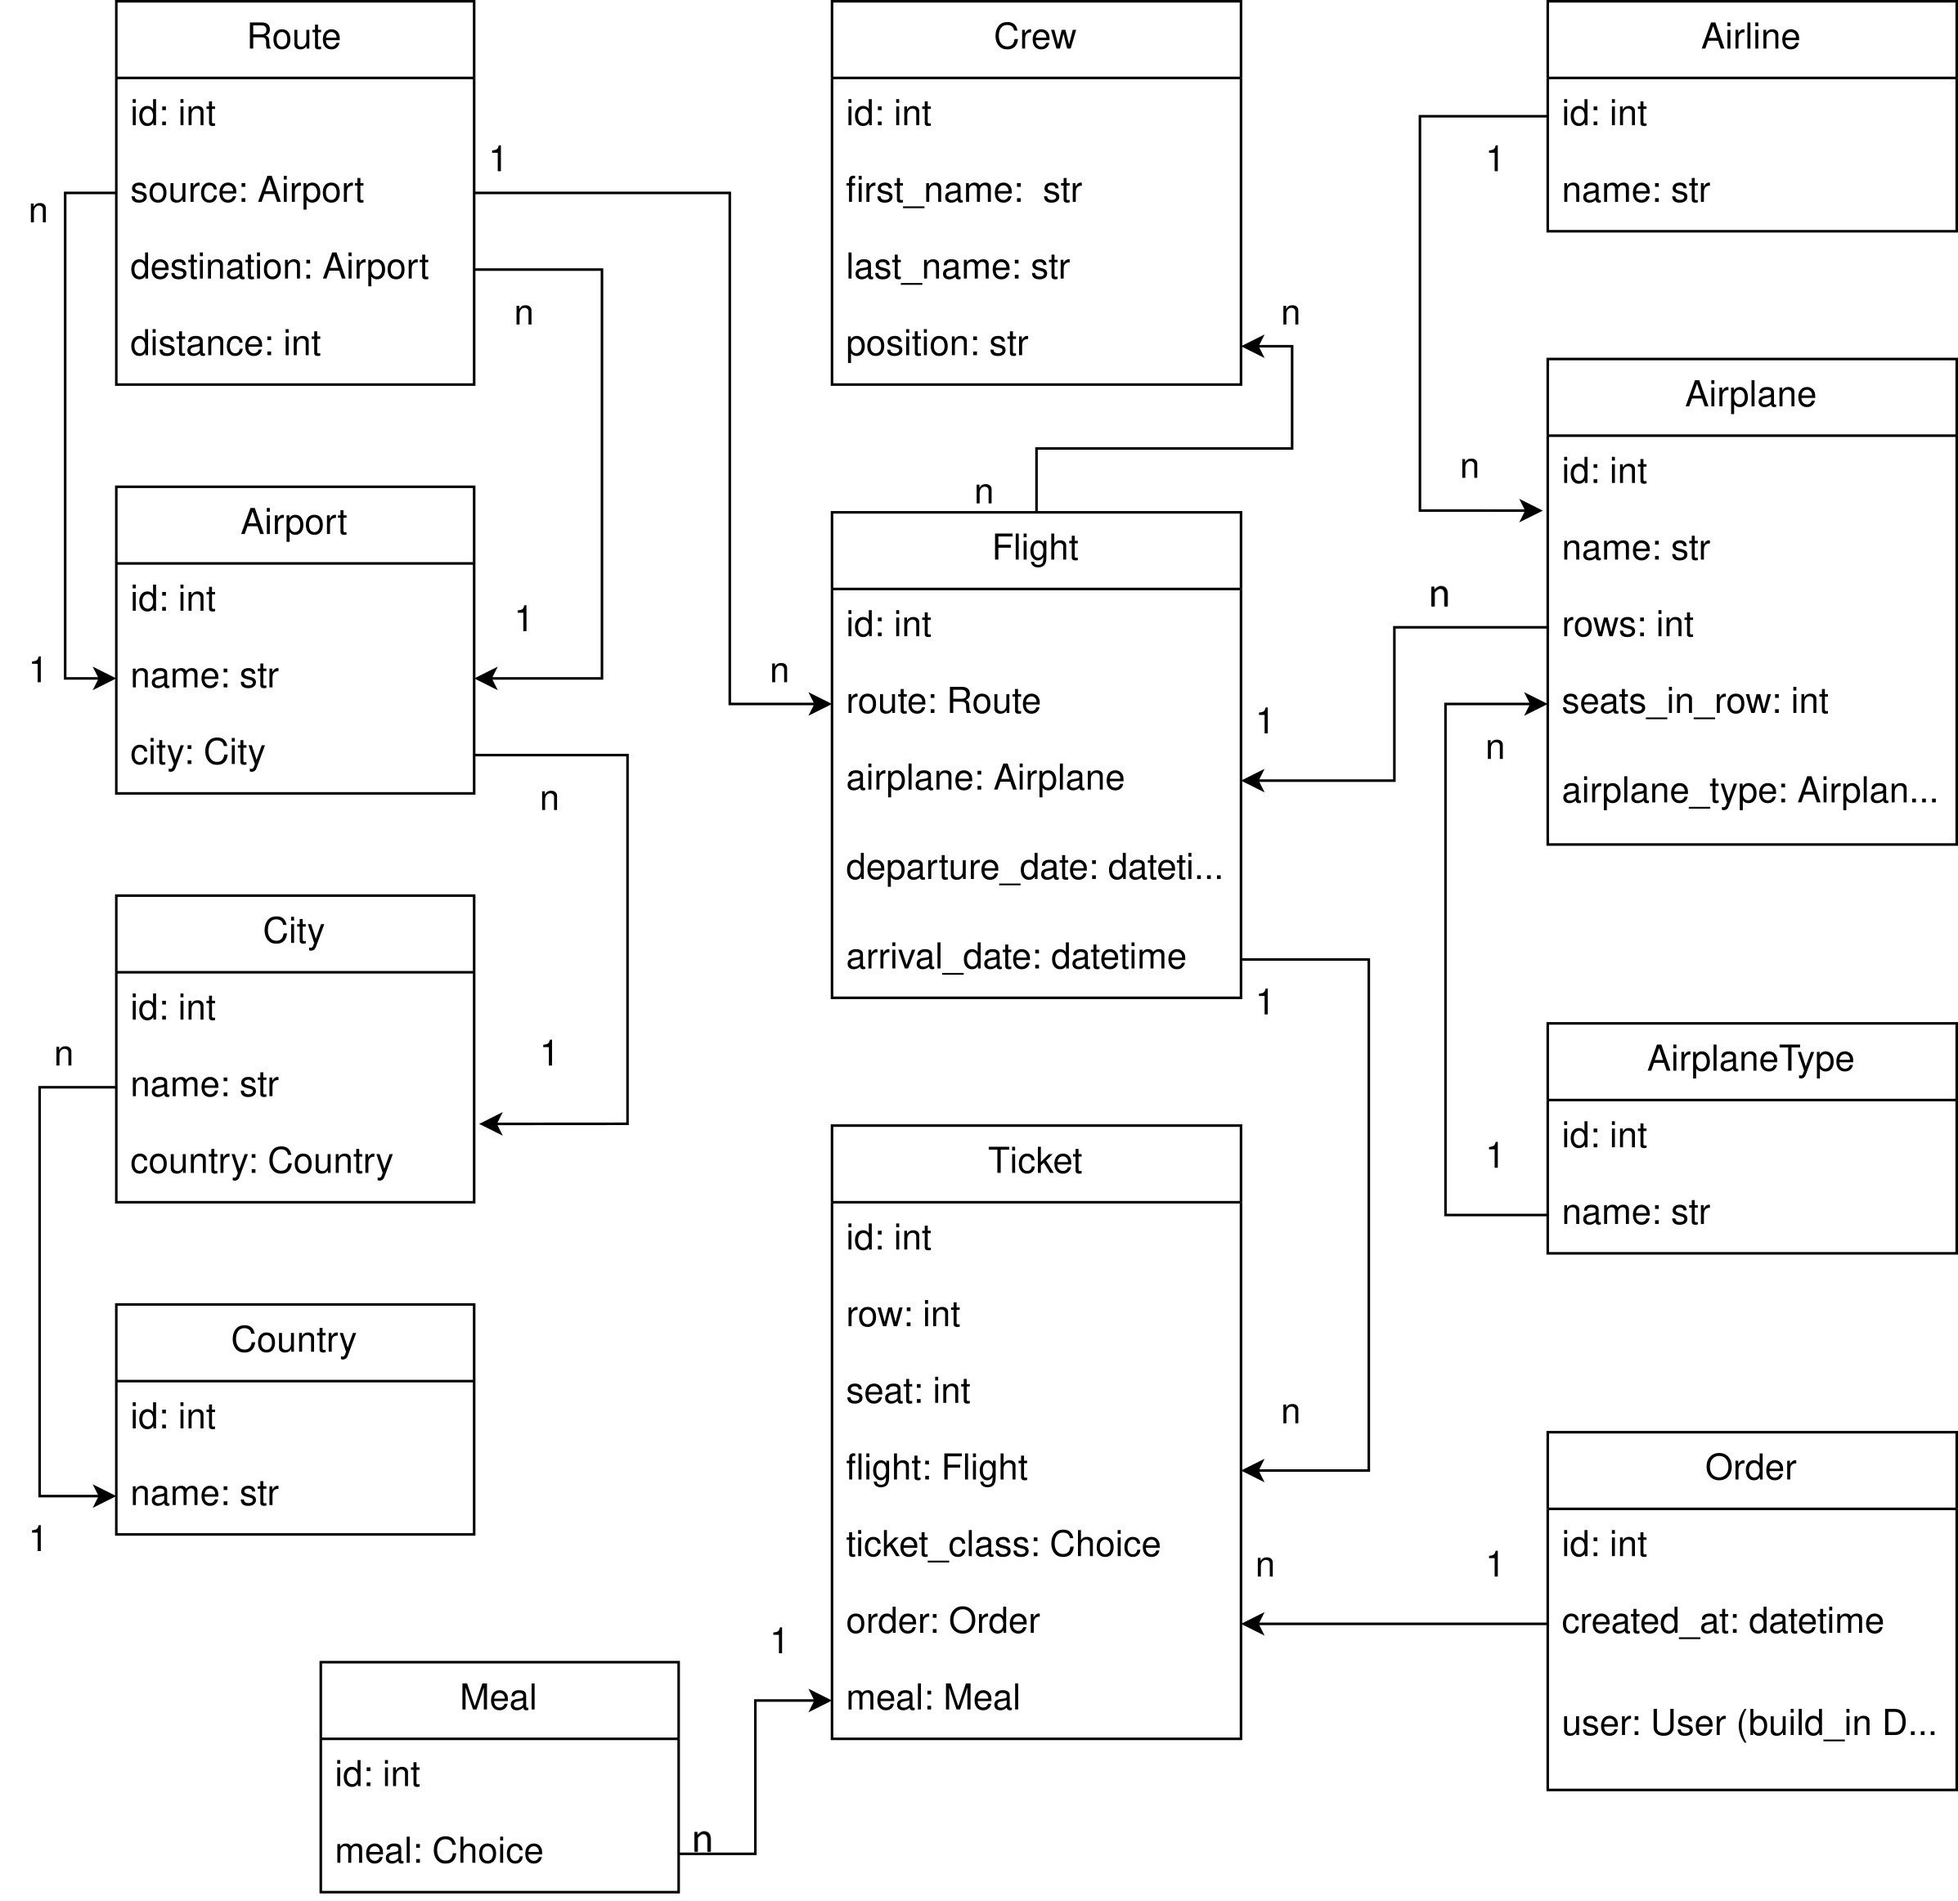
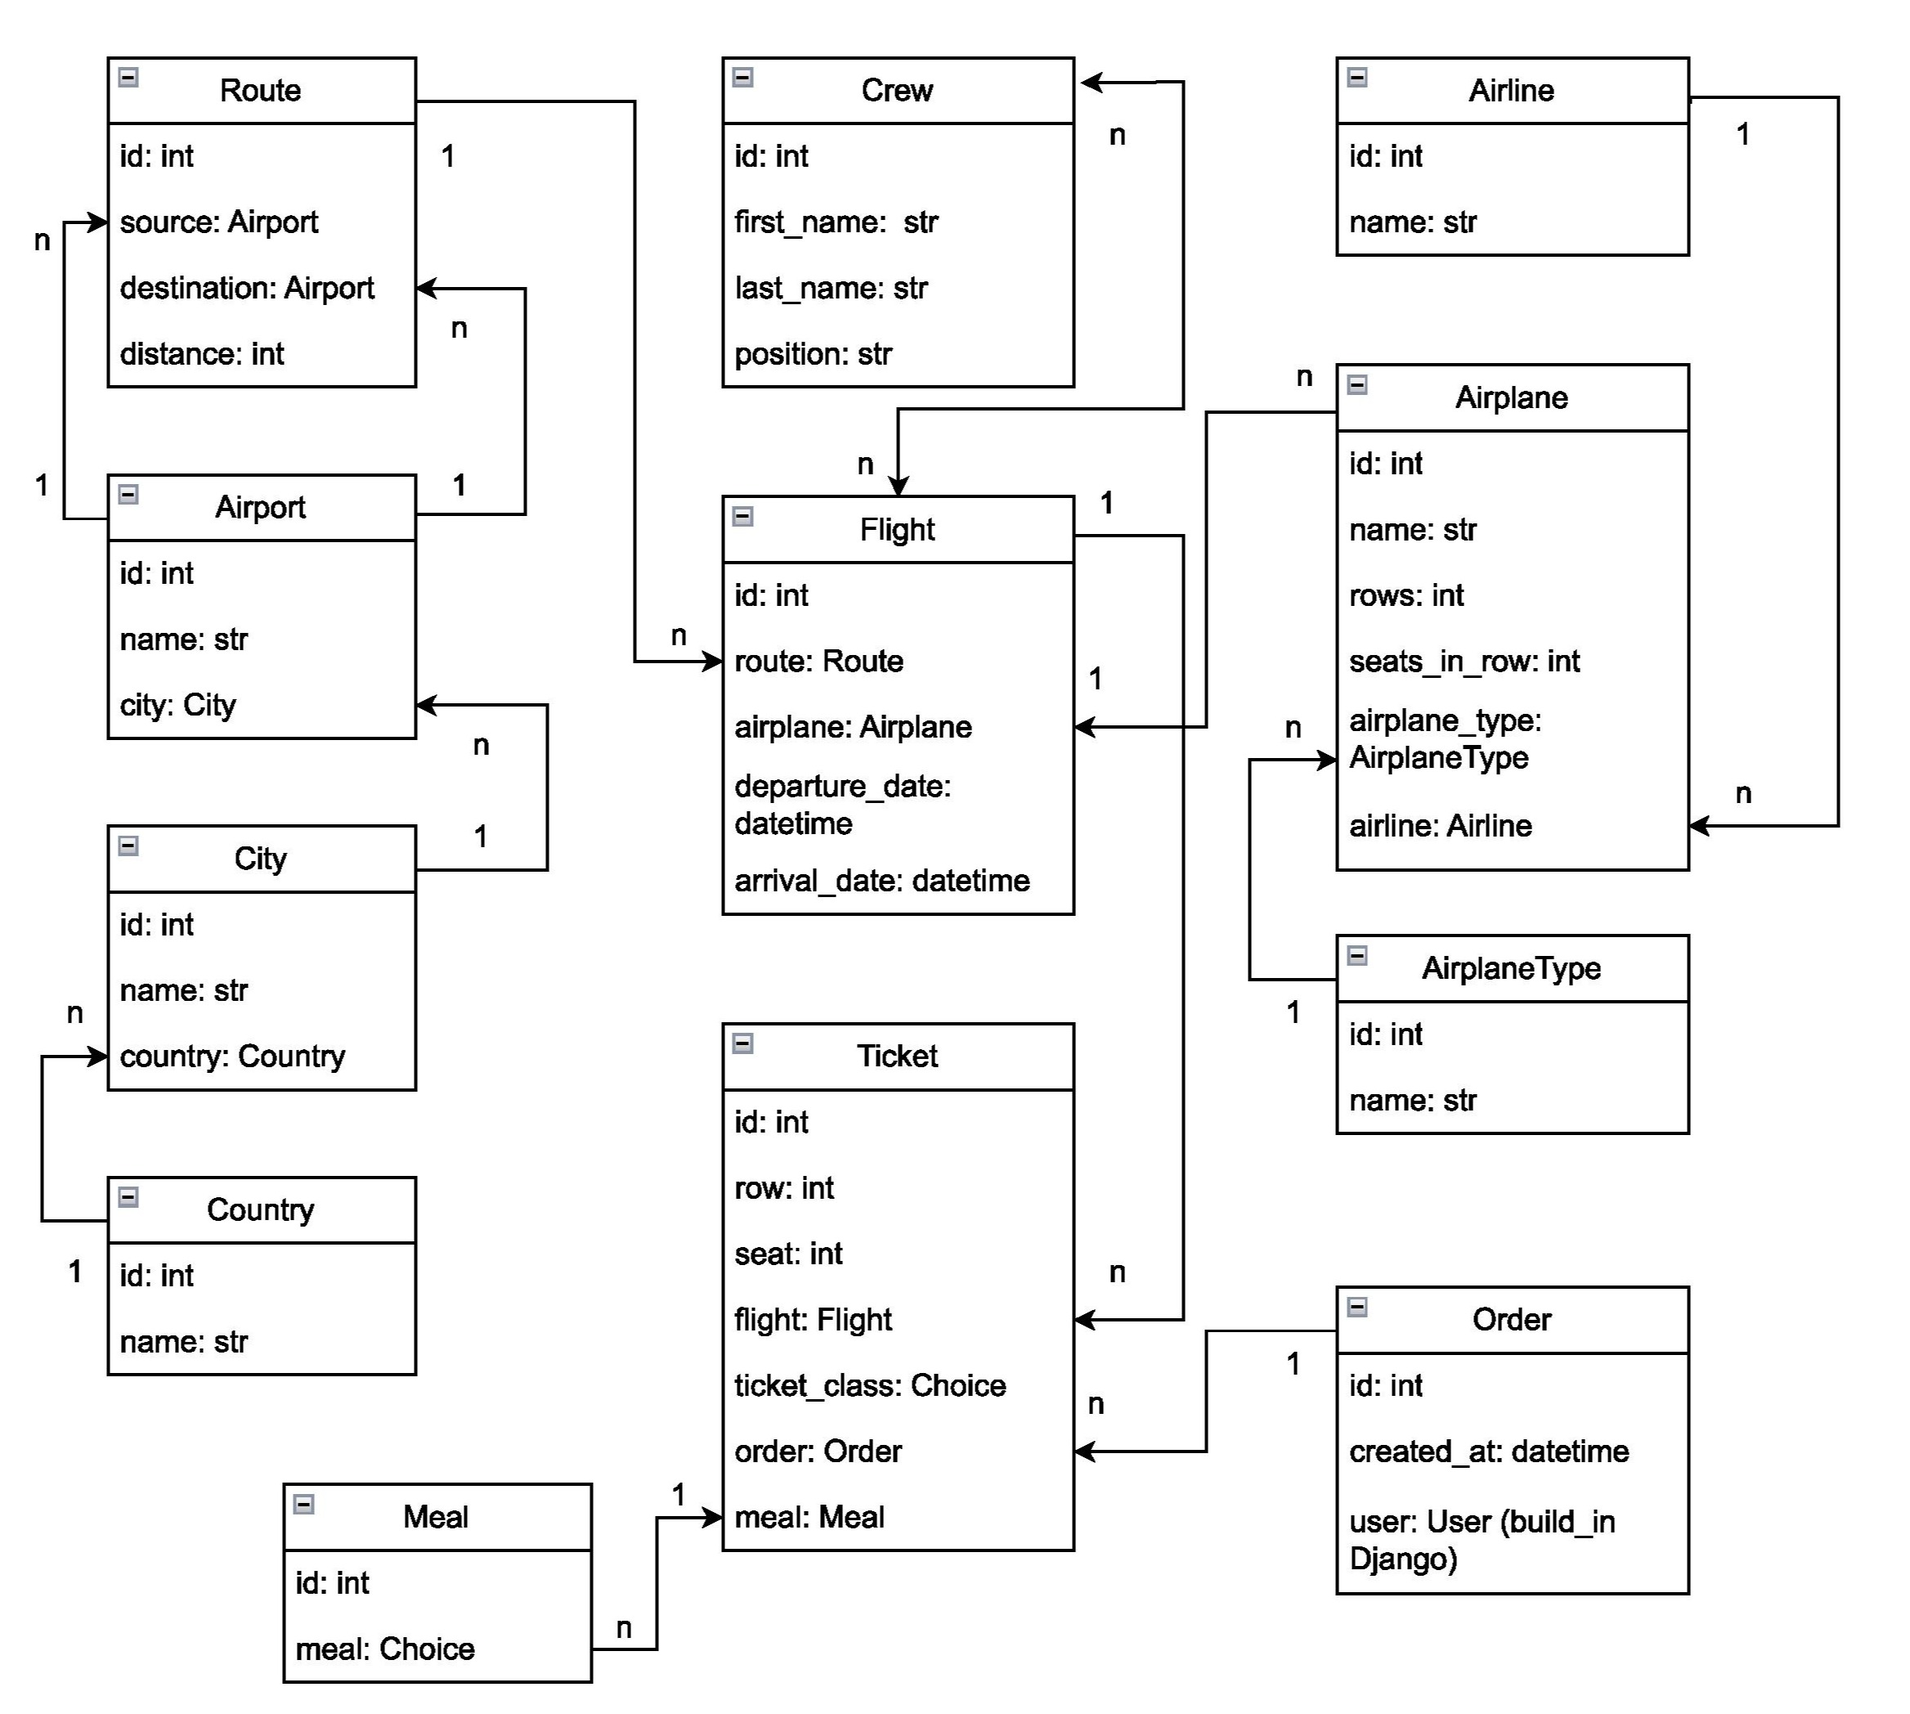
Optimized migrations
Optimized migrations

diff --git a/flight/migrations/0001_initial.py b/flight/migrations/0001_initial.py
@@ -1,5 +1,6 @@
-# Generated by Django 4.2.5 on 2023-09-09 15:19
+# Generated by Django 4.2.5 on 2023-09-17 16:38
 
+from django.conf import settings
 from django.db import migrations, models
 import django.db.models.deletion
 
@@ -7,7 +8,11 @@ import django.db.models.deletion
 class Migration(migrations.Migration):
     initial = True
 
-    dependencies = []
+    dependencies = [
+        ("airplane", "0001_initial"),
+        ("airport", "0001_initial"),
+        migrations.swappable_dependency(settings.AUTH_USER_MODEL),
+    ]
 
     operations = [
         migrations.CreateModel(
@@ -24,7 +29,13 @@ class Migration(migrations.Migration):
                 ),
                 ("first_name", models.CharField(max_length=255)),
                 ("last_name", models.CharField(max_length=255)),
+                ("position", models.CharField(max_length=255)),
             ],
+            options={
+                "verbose_name": "crew_member",
+                "verbose_name_plural": "crew_members",
+                "ordering": ["position"],
+            },
         ),
         migrations.CreateModel(
             name="Flight",
@@ -40,6 +51,23 @@ class Migration(migrations.Migration):
                 ),
                 ("departure_time", models.DateTimeField()),
                 ("arrival_time", models.DateTimeField()),
+                (
+                    "airplane",
+                    models.ForeignKey(
+                        on_delete=django.db.models.deletion.CASCADE,
+                        to="airplane.airplane",
+                    ),
+                ),
+                (
+                    "crew_members",
+                    models.ManyToManyField(related_name="flights", to="flight.crew"),
+                ),
+                (
+                    "route",
+                    models.ForeignKey(
+                        on_delete=django.db.models.deletion.CASCADE, to="airport.route"
+                    ),
+                ),
             ],
             options={
                 "ordering": ["departure_time"],
@@ -61,12 +89,12 @@ class Migration(migrations.Migration):
                     "meal",
                     models.CharField(
                         choices=[
-                            ("ST", "Standard"),
-                            ("VE", "Vegetarian"),
-                            ("NO", "No meal"),
+                            ("STANDARD", "Standard"),
+                            ("VEGETARIAN", "Vegetarian"),
+                            ("NO_MEAL", "No meal"),
                         ],
-                        default="ST",
-                        max_length=2,
+                        default="STANDARD",
+                        max_length=10,
                     ),
                 ),
             ],
@@ -84,6 +112,13 @@ class Migration(migrations.Migration):
                     ),
                 ),
                 ("created_at", models.DateTimeField(auto_now_add=True)),
+                (
+                    "user",
+                    models.ForeignKey(
+                        on_delete=django.db.models.deletion.CASCADE,
+                        to=settings.AUTH_USER_MODEL,
+                    ),
+                ),
             ],
             options={
                 "ordering": ["-created_at"],
@@ -106,9 +141,9 @@ class Migration(migrations.Migration):
                 (
                     "ticket_class",
                     models.CharField(
-                        choices=[("ECO", "Economy"), ("BSC", "Business")],
-                        default="ECO",
-                        max_length=3,
+                        choices=[("ECONOMY", "Economy"), ("BUSINESS", "Business")],
+                        default="ECONOMY",
+                        max_length=8,
                     ),
                 ),
                 (
@@ -134,6 +169,7 @@ class Migration(migrations.Migration):
             ],
             options={
                 "ordering": ["row", "seat"],
+                "unique_together": {("flight", "row", "seat")},
             },
         ),
     ]

diff --git a/airport/migrations/0001_initial.py b/airport/migrations/0001_initial.py
@@ -1,4 +1,4 @@
-# Generated by Django 4.2.5 on 2023-09-09 15:19
+# Generated by Django 4.2.5 on 2023-09-17 16:38
 
 from django.db import migrations, models
 import django.db.models.deletion
@@ -24,6 +24,10 @@ class Migration(migrations.Migration):
                 ),
                 ("name", models.CharField(max_length=255, unique=True)),
             ],
+            options={
+                "verbose_name": "country",
+                "verbose_name_plural": "countries",
+            },
         ),
         migrations.CreateModel(
             name="City",
@@ -46,6 +50,11 @@ class Migration(migrations.Migration):
                     ),
                 ),
             ],
+            options={
+                "verbose_name": "city",
+                "verbose_name_plural": "cities",
+                "ordering": ["country"],
+            },
         ),
         migrations.CreateModel(
             name="Airport",
@@ -68,6 +77,9 @@ class Migration(migrations.Migration):
                     ),
                 ),
             ],
+            options={
+                "ordering": ["city"],
+            },
         ),
         migrations.CreateModel(
             name="Route",

diff --git a/airplane/migrations/0001_initial.py b/airplane/migrations/0001_initial.py
@@ -1,5 +1,6 @@
-# Generated by Django 4.2.5 on 2023-09-09 15:19
+# Generated by Django 4.2.5 on 2023-09-17 16:38
 
+import airplane.models
 from django.db import migrations, models
 import django.db.models.deletion
 
@@ -55,6 +56,12 @@ class Migration(migrations.Migration):
                 ("name", models.CharField(max_length=255, unique=True)),
                 ("rows", models.IntegerField()),
                 ("seats_in_row", models.IntegerField()),
+                (
+                    "image",
+                    models.ImageField(
+                        null=True, upload_to=airplane.models.airplane_image_file_path
+                    ),
+                ),
                 (
                     "airline",
                     models.ForeignKey(
